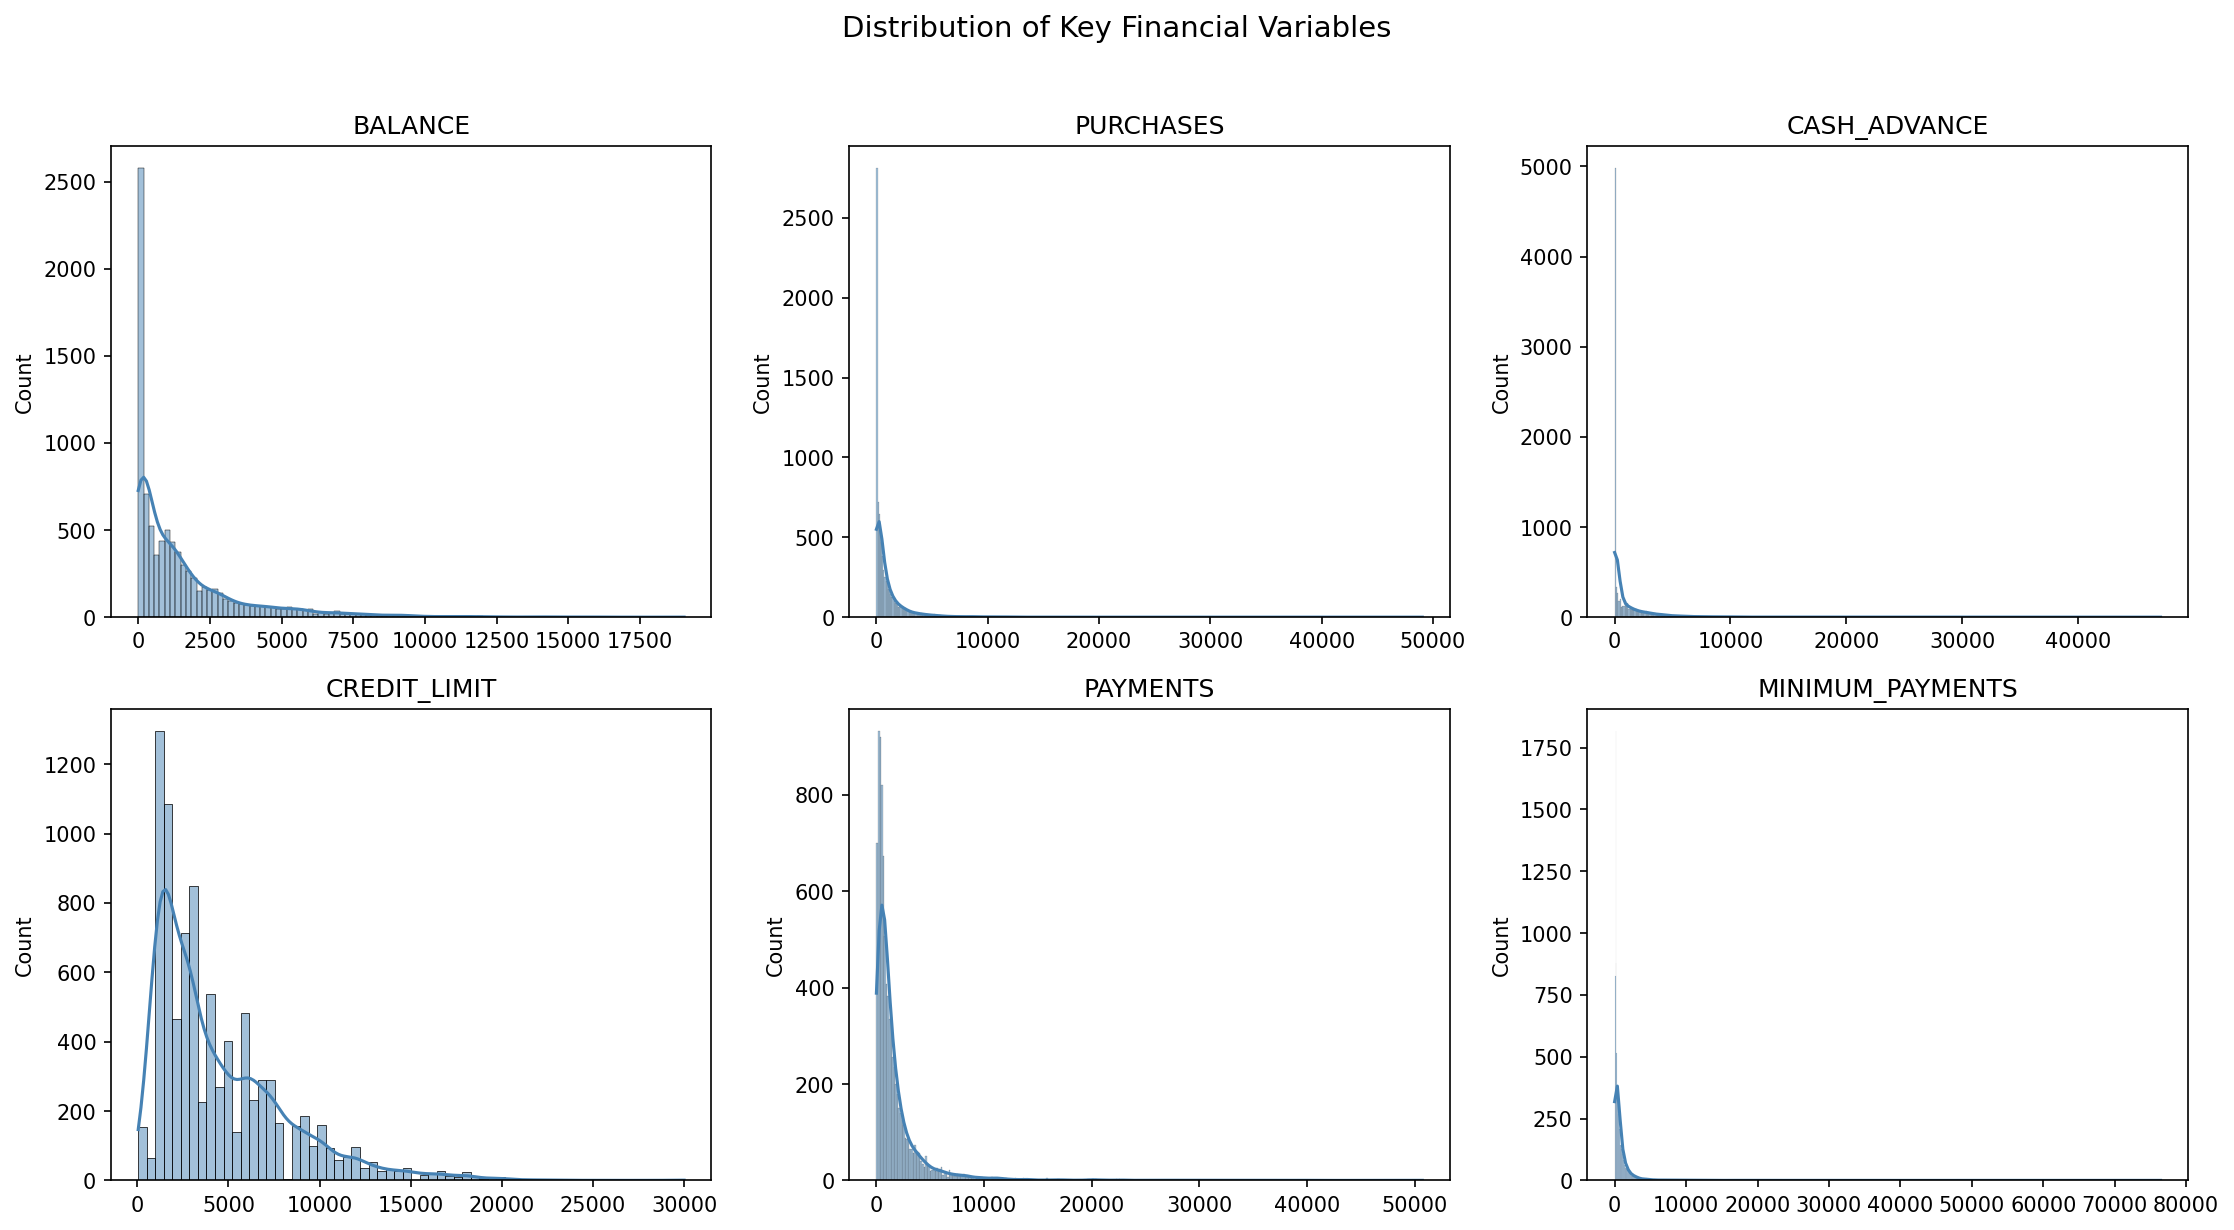
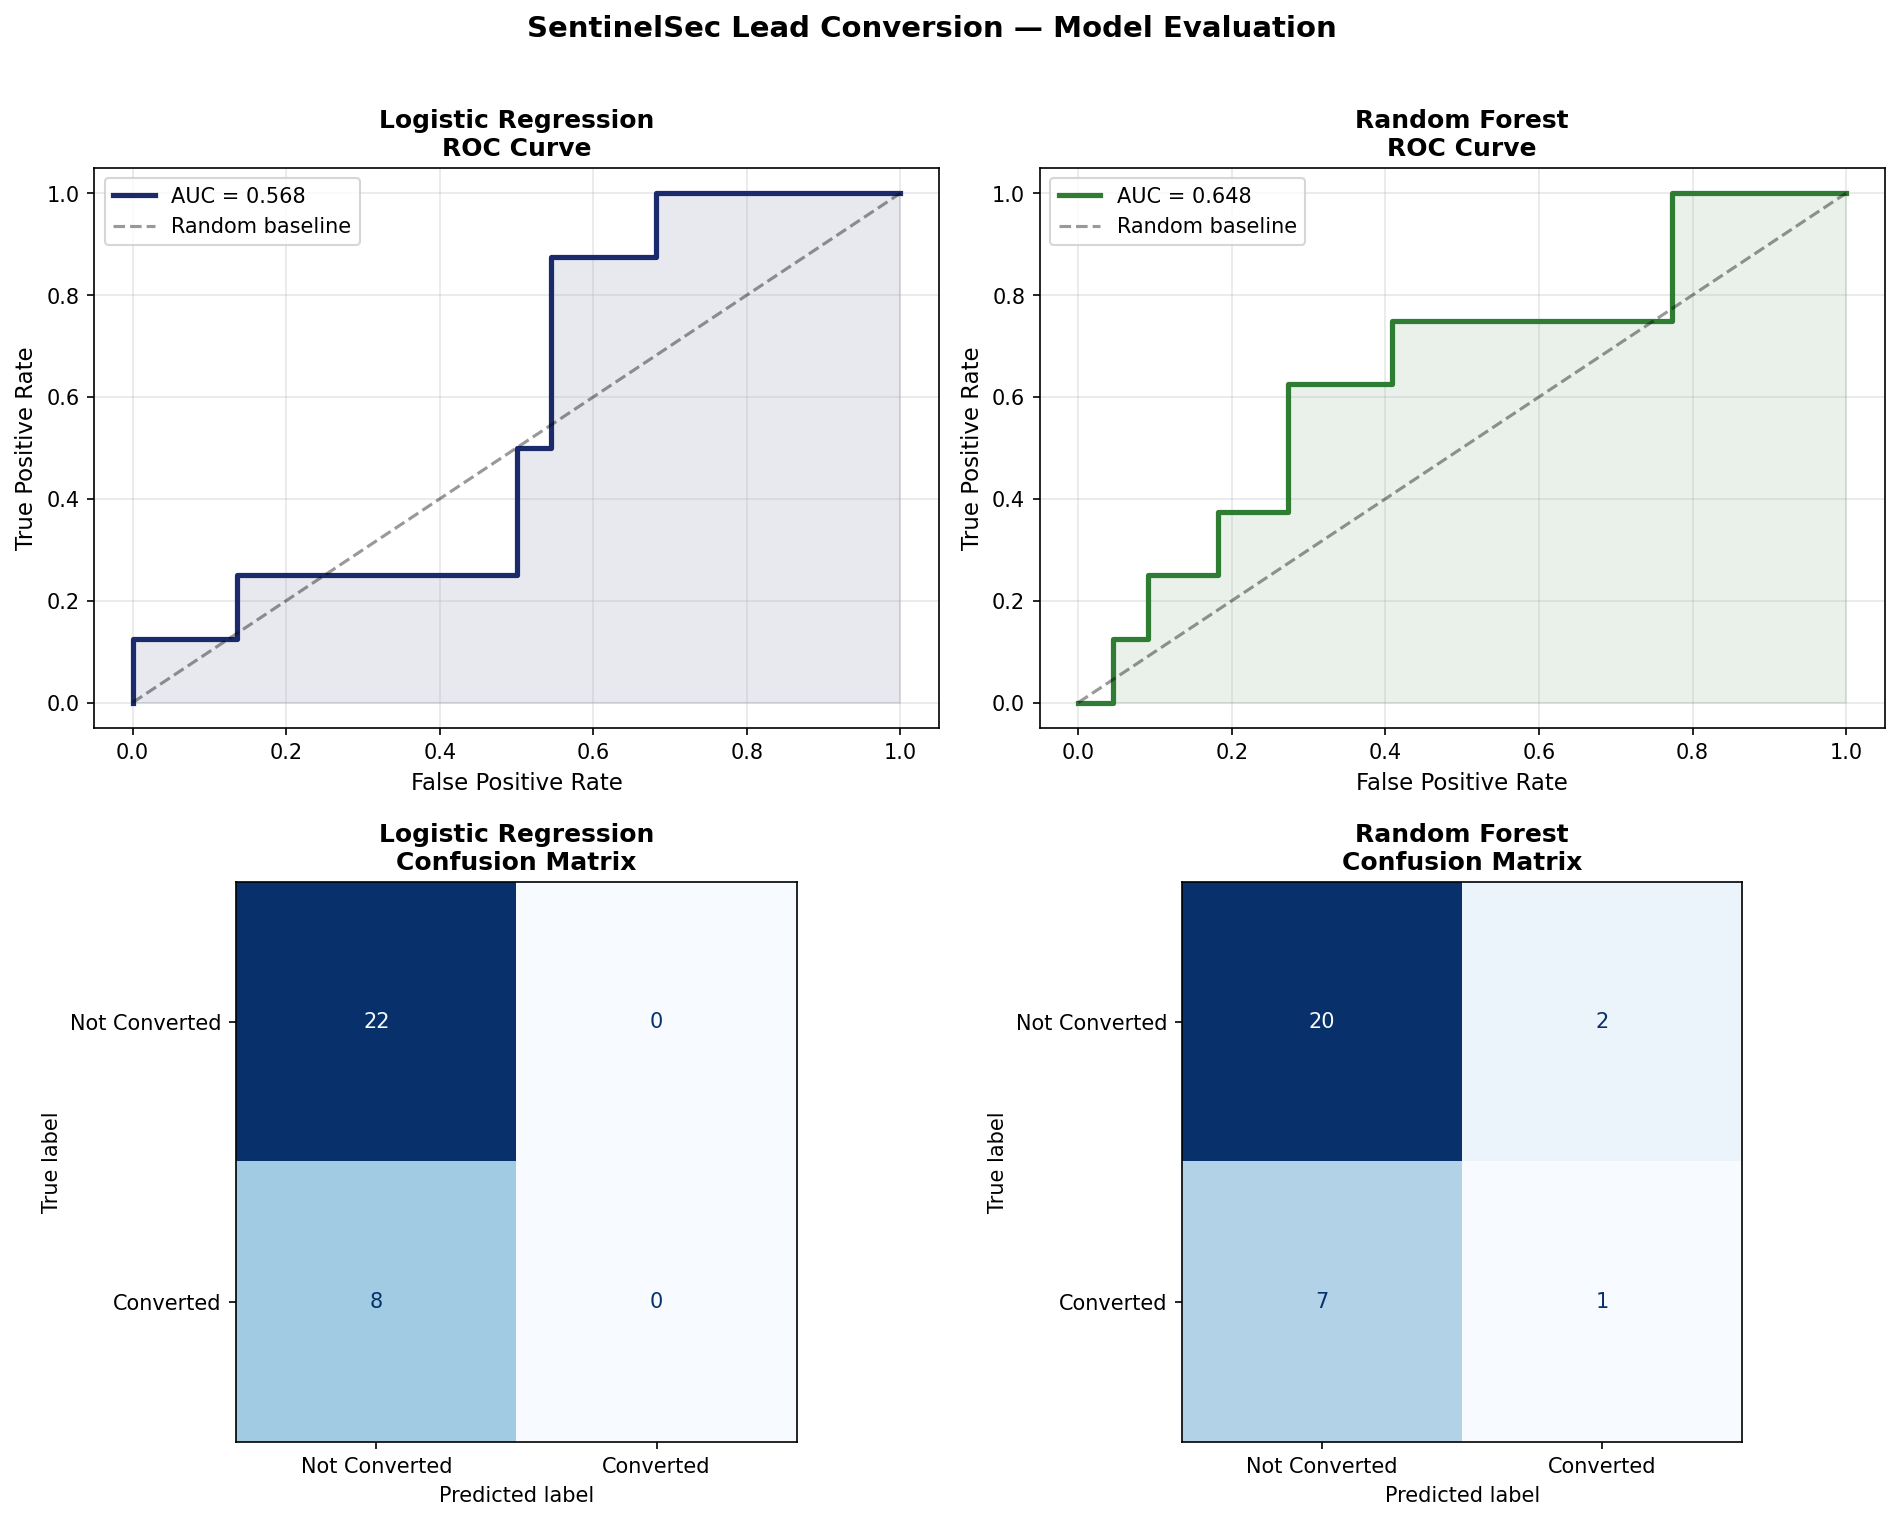
Corrected page 4 images and added new screenshots for lead pipeline distribution and feature exploration

diff --git a/project4.html b/project4.html
@@ -81,6 +81,17 @@
         </div>
       </div>
 
+      <div class="screenshot-grid" style="margin-top:1.5rem;">
+        <figure>
+          <img src="assets/images/p4-class-dist.png" alt="Lead pipeline status and conversion rate by company size" />
+          <figcaption>Lead pipeline distribution and conversion rate by company tier</figcaption>
+        </figure>
+        <figure>
+          <img src="assets/images/p4-exploration.png" alt="Feature exploration charts" />
+          <figcaption>Feature exploration — lead score, response time, correlation matrix</figcaption>
+        </figure>
+      </div>
+
       <div class="project-section">
         <h2>Key EDA Finding: Multicollinearity</h2>
         <p>Lead_Score_Cal and Company_Size_Num have a <strong>0.96 correlation</strong> — near-perfect collinearity. The
